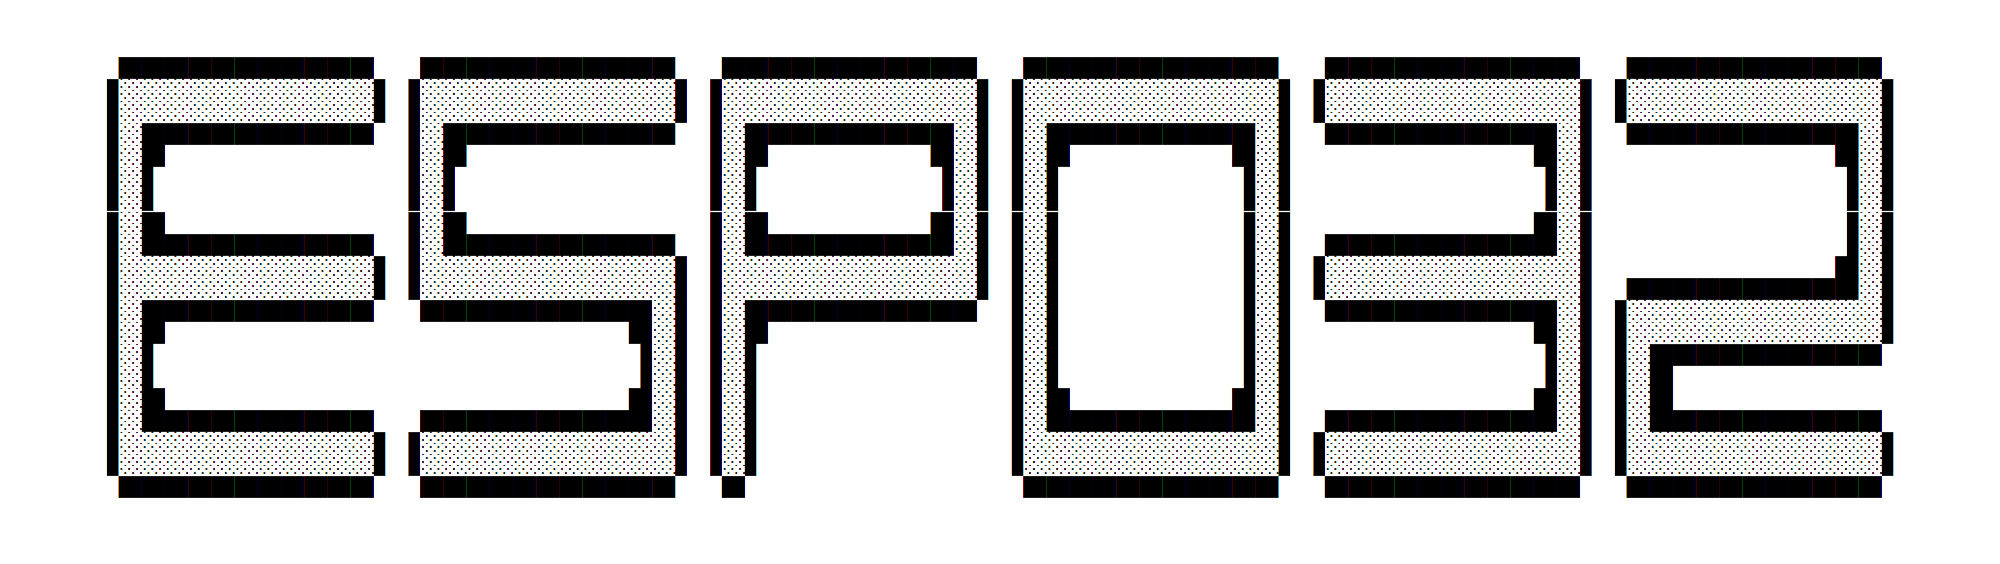
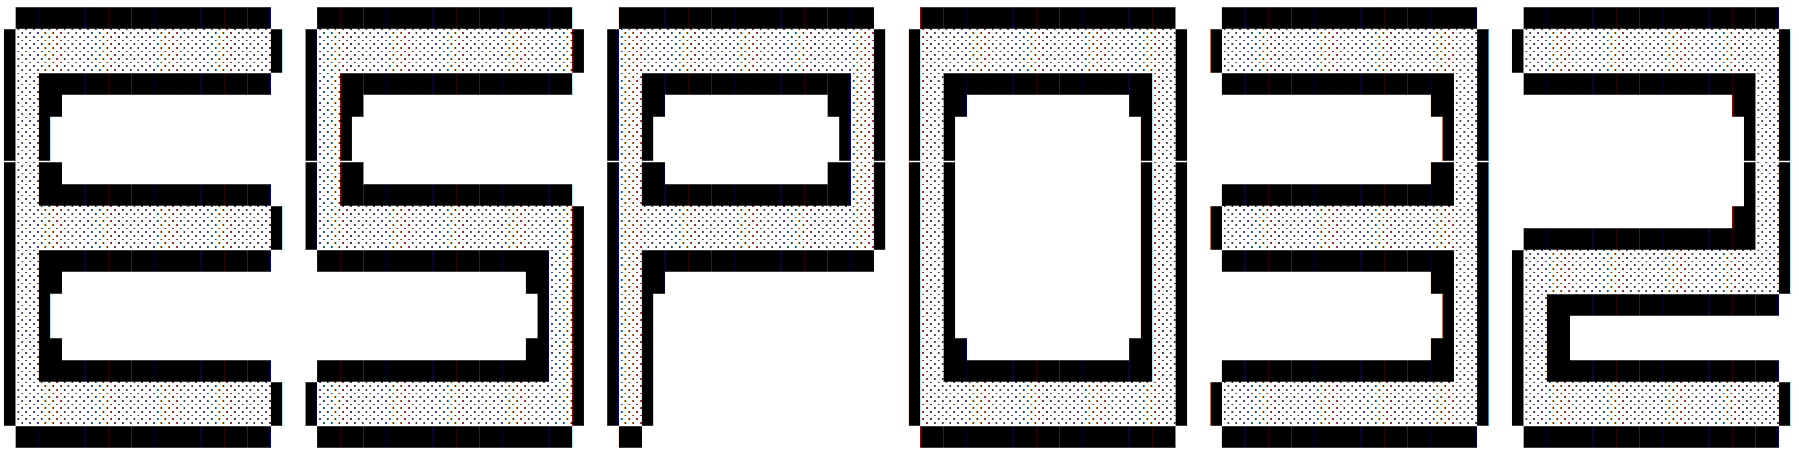
Mejora Para Móviles

diff --git a/index.html b/index.html
@@ -89,20 +89,12 @@
 		<div class="cnt-box" id="SPO32">
 			<div class="cnt-head"><h2>SPO32</h2></div>
 			<div class="cnt-filler">
-				<div class="cnt-info">		
-					<pre>
-			▄▄▄▄▄▄▄▄▄▄▄  ▄▄▄▄▄▄▄▄▄▄▄  ▄▄▄▄▄▄▄▄▄▄▄  ▄▄▄▄▄▄▄▄▄▄▄  ▄▄▄▄▄▄▄▄▄▄▄ 
-			▐░░░░░░░░░░░▌▐░░░░░░░░░░░▌▐░░░░░░░░░░░▌▐░░░░░░░░░░░▌▐░░░░░░░░░░░▌
-			▐░█▀▀▀▀▀▀▀▀▀ ▐░█▀▀▀▀▀▀▀█░▌▐░█▀▀▀▀▀▀▀█░▌ ▀▀▀▀▀▀▀▀▀█░▌ ▀▀▀▀▀▀▀▀▀█░▌
-			▐░▌          ▐░▌       ▐░▌▐░▌       ▐░▌          ▐░▌          ▐░▌
-			▐░█▄▄▄▄▄▄▄▄▄ ▐░█▄▄▄▄▄▄▄█░▌▐░▌       ▐░▌ ▄▄▄▄▄▄▄▄▄█░▌          ▐░▌
-			▐░░░░░░░░░░░▌▐░░░░░░░░░░░▌▐░▌       ▐░▌▐░░░░░░░░░░░▌ ▄▄▄▄▄▄▄▄▄█░▌
-	                 ▀▀▀▀▀▀▀▀▀█░▌▐░█▀▀▀▀▀▀▀▀▀ ▐░▌       ▐░▌ ▀▀▀▀▀▀▀▀▀█░▌▐░░░░░░░░░░░▌
-		                  ▐░▌▐░▌          ▐░▌       ▐░▌          ▐░▌▐░█▀▀▀▀▀▀▀▀▀ 
-		         ▄▄▄▄▄▄▄▄▄█░▌▐░▌          ▐░█▄▄▄▄▄▄▄█░▌ ▄▄▄▄▄▄▄▄▄█░▌▐░█▄▄▄▄▄▄▄▄▄ 
-			▐░░░░░░░░░░░▌▐░▌          ▐░░░░░░░░░░░▌▐░░░░░░░░░░░▌▐░░░░░░░░░░░▌
-		         ▀▀▀▀▀▀▀▀▀▀▀  ▀            ▀▀▀▀▀▀▀▀▀▀▀  ▀▀▀▀▀▀▀▀▀▀▀  ▀▀▀▀▀▀▀▀▀▀▀ 					
-					</pre>
+				<div class="cnt-info">	
+					<div id="spacer"></div>
+					<div class="image-container1">
+						<img src="images/SPO32.png" alt="SPO32" style="width: 600px;">					
+					</div>	
+					
 					<p>Este proyecto es el más complejo y extenso que he realizado. La idea surgió porque quería unificar varias acciones que realizaba todos los días en diferentes aplicaciones en un único dispositivo. Las funcionalidades implementadas son las siguientes:</p>
 					<ul>
 						<li><strong>Reloj digital</strong> con la temperatura actual, máxima y mínima del día.</li>
@@ -131,17 +123,10 @@
 			<div class="cnt-head"><h2>STYLO-BOX</h2></div>
 			<div class="cnt-filler">
 				<div class="cnt-info">		
-					<pre>
-	   ▄████████     ███     ▄██   ▄    ▄█        ▄██████▄  ▀█████████▄   ▄██████▄  ▀████    ▐████▀ 
-	  ███    ███ ▀█████████▄ ███   ██▄ ███       ███    ███   ███    ███ ███    ███   ███▌   ████▀  
-	  ███    █▀     ▀███▀▀██ ███▄▄▄███ ███       ███    ███   ███    ███ ███    ███    ███  ▐███    
-	  ███            ███   ▀ ▀▀▀▀▀▀███ ███       ███    ███  ▄███▄▄▄██▀  ███    ███    ▀███▄███▀    
-        ▀███████████     ███     ▄██   ███ ███       ███    ███ ▀▀███▀▀▀██▄  ███    ███    ████▀██▄     
-	         ███     ███     ███   ███ ███       ███    ███   ███    ██▄ ███    ███   ▐███  ▀███    
-           ▄█    ███     ███     ███   ███ ███▌    ▄ ███    ███   ███    ███ ███    ███  ▄███     ███▄  
-         ▄████████▀     ▄████▀    ▀█████▀  █████▄▄██  ▀██████▀  ▄█████████▀   ▀██████▀  ████       ███▄ 
-														 ▀                                                            				
-					</pre>
+					<div id="spacer"></div>
+					<div class="image-container1">
+						<img src="theme/STYLOBOX.png" alt="STYLOBOX" style="width: 600px;">					
+					</div>	
 					<p>Este proyecto fue realizado para la asignatura de Sistemas Digitales 2 en la universidad, el proyecto consistía en una parte obligatoria la cual consistía en crear un Jukebox con un STM32 en leguaje C. En la parte final opcional decidí hacer un "stylophone" creando las piezas a partir de unos sensores y con la opción de subir y bajar de octava.</p>
 					<p>Recibí la insignia de "Proyecto con Mejor diseño Hardware" gracias a él.</p>
 
@@ -168,15 +153,11 @@
 		<div class="cnt-box" id="EZCALENDAR">
 			<div class="cnt-head"><h2>EZCALENDAR</h2></div>
 			<div class="cnt-filler">
-				<div class="cnt-info">		
-					<pre>
-		███████╗███████╗ ██████╗ █████╗ ██╗     ███████╗███╗   ██╗██████╗  █████╗ ██████╗ 
-		██╔════╝╚══███╔╝██╔════╝██╔══██╗██║     ██╔════╝████╗  ██║██╔══██╗██╔══██╗██╔══██╗
-		█████╗    ███╔╝ ██║     ███████║██║     █████╗  ██╔██╗ ██║██║  ██║███████║██████╔╝
-		██╔══╝   ███╔╝  ██║     ██╔══██║██║     ██╔══╝  ██║╚██╗██║██║  ██║██╔══██║██╔══██╗
-		███████╗███████╗╚██████╗██║  ██║███████╗███████╗██║ ╚████║██████╔╝██║  ██║██║  ██║
-		╚══════╝╚══════╝ ╚═════╝╚═╝  ╚═╝╚══════╝╚══════╝╚═╝  ╚═══╝╚═════╝ ╚═╝  ╚═╝╚═╝  ╚═╝						
-					</pre>
+				<div class="cnt-info">	
+					<div id="spacer"></div>
+					<div class="image-container1">
+						<img src="theme/EZCALENDAR.png" alt="EZCALENDAR" style="width: 600px;">					
+					</div>		
 					<p>Desarrolle este programa en python porque siempre me hacía los calendarios de examenes a mano, pero gracias a este él puedo generar un calendario en PDF, listo para imprimir con los días restantes hasta todas las fechas que quiera.</p>
 					
 				</div>
@@ -202,16 +183,10 @@
 			<div class="cnt-head"><h2>AUTO-YT</h2></div>
 			<div class="cnt-filler">
 				<div class="cnt-info">		
-					<pre>
-		       d8888 888     888 88888888888 .d88888b.       Y88b   d88P 88888888888 
-		      d88888 888     888     888    d88P" "Y88b       Y88b d88P      888     
-		     d88P888 888     888     888    888     888        Y88o88P       888     
-		    d88P 888 888     888     888    888     888         Y888P        888     
-		   d88P  888 888     888     888    888     888          888         888     
-		  d88P   888 888     888     888    888     888 888888   888         888     
-		 d8888888888 Y88b. .d88P     888    Y88b. .d88P          888         888     
-		d88P     888  "Y88888P"      888     "Y88888P"           888         888 					
-					</pre>
+					<div id="spacer"></div>
+					<div class="image-container1">
+						<img src="theme/auto-yt.png" alt="auto-yt" style="width: 600px;">					
+					</div>	
 					<p>Quería investigar la monetización de youtube mediante la creación de una canal de automatizado, con la API de Google para youtube y un poco de scraping conseguí generar contenido en muy pocos minutos, sin necesidad de editar ni buscar contenido.</p>
 					<p>El programa esta diseñado para dos funcionalidades, <strong>subir reels de youtube</strong> y <strong>crear recopilaciones de vídeos</strong> obtenidos de instgram. Genera nombres de forma automática para los videos y se pueden incluir descripciones y hastags, o bien usar unos predefinidos.</p>
 					<p>Basé el código en uno no mantenido que encontré en GitHub, añadiendole infinidad de mejoras y actualizandolo según mis gustos, quedando un programa muy fácil de usar.</p>
@@ -237,17 +212,9 @@
 			<div class="cnt-head"><h2>Proyectos Para Empresas</h2></div>
 			<div class="cnt-filler">
 				<div class="cnt-info">		
-					<pre>                                                                                                                              
-      888888888888  88888888888  8b        d8  888888888888  ad888888b,    ,ad8888ba,    88        88  
-	   88       88            Y8,    ,8P        88      d8"     "88   d8"'    `"8b   88        88  
-	   88       88             `8b  d8'         88              a8P  d8'        `8b  88        88  
-	   88       88aaaaa          Y88P           88           ,d8P"   88          88  88        88  
-	   88       88"""""          d88b           88         a8P"      88          88  88        88  
-	   88       88             ,8P  Y8,         88       a8P'        Y8,    "88,,8P  88        88  
-	   88       88            d8'    `8b        88      d8"           Y8a.    Y88P   Y8a.    .a8P  
-	   88       88888888888  8P        Y8       88      88888888888    `"Y8888Y"Y8a   `"Y8888Y"'   
-																													
-					</pre>
+					<div class="image-container1">
+						<img src="theme/TEXT2QU.png" alt="TEXT2QU" style="width: 600px;">					
+					</div>	
 					<p><strong>TEXT2QU</strong> es un software privado que fue diseñado y desarrolado para la automatización de generación de ejercicios de puzzle de programación para cursos telemáticos.</p>
 					<p>Con él, en cuestion de segundos, es posible generar cientos de preguntas de tipo puzzle orientadas a la programación, de un video de una clase o conferencia grabada de forma automática.  </p>
 					
@@ -258,19 +225,10 @@
 					<pre>
 
 ---------------------------------------------------------------------------------------------------------------------------
-
-
- __/\\\\\\\\\\\\\\\__/\\\\\\\\\\\\\\\__/\\\_______/\\\__/\\\\\\\\\\\\\\\____/\\\\\\\\\____________/\\\_______        
- _\///////\\\/////__\/\\\///////////__\///\\\___/\\\/__\///////\\\/////___/\\\///////\\\_______/\\\\/\\\\____       
- _______\/\\\_______\/\\\_______________\///\\\\\\/__________\/\\\_______\///______\//\\\____/\\\//\////\\\__      
- _______\/\\\_______\/\\\\\\\\\\\_________\//\\\\____________\/\\\_________________/\\\/____/\\\______\//\\\_     
- _______\/\\\_______\/\\\///////___________\/\\\\____________\/\\\______________/\\\//_____\//\\\______/\\\__    
- _______\/\\\_______\/\\\__________________/\\\\\\___________\/\\\___________/\\\//_________\///\\\\/\\\\/___   
- _______\/\\\_______\/\\\________________/\\\////\\\_________\/\\\_________/\\\/______________\////\\\//_____  
- _______\/\\\_______\/\\\\\\\\\\\\\\\__/\\\/___\///\\\_______\/\\\________/\\\\\\\\\\\\\\\_______\///\\\\\\__ 
- _______\///________\///////////////__\///_______\///________\///________\///////////////__________\//////___     
-																									 
 					</pre>
+					<div class="image-container1">
+						<img src="theme/TEXT2Q.png" alt="TEXT2Q" style="width: 600px;">					
+					</div>	
 					<p><strong> TEXT2Q</strong> es un software privado que fue diseñado para la automatización de generación de preguntas para cursos telemáticos para una empresa.</p>
 					<p>Con él, en cuestion de segundos, es posible generar cientos de preguntas de tipo multiple-choice, verdadero o falso y fill-the-gaps para un vídeo de una clase o conferencia grabada de forma automática.  </p>				
 				</div>

diff --git a/css/styles.css b/css/styles.css
@@ -522,9 +522,10 @@
 .cnt-box {
 	padding: 0px;
 	margin: 0px 0px 20px 0px;
-	width: 700px;
+	min-width: 700px;
 	position: relative;
 	overflow: hidden;
+	
 }
 .cnt-head {
 	background-image: url('../theme/cnt-top.jpg');
